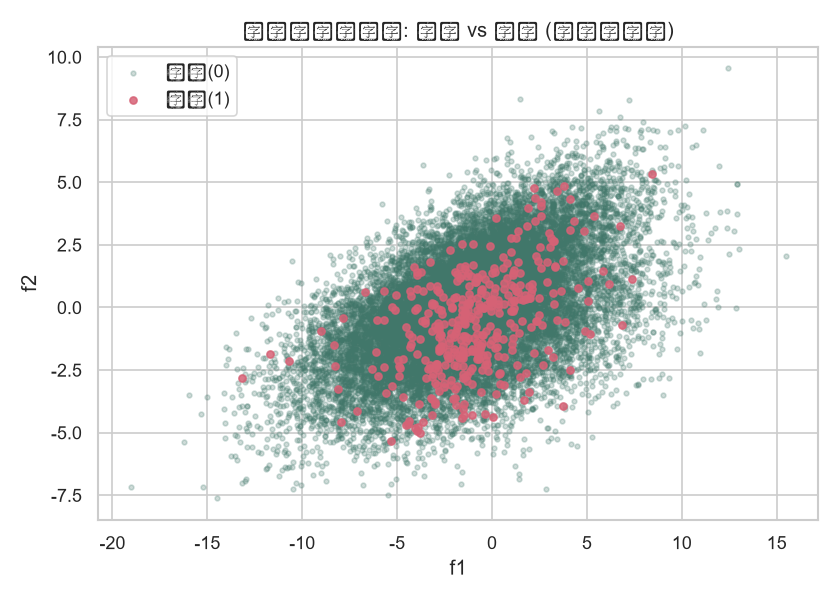
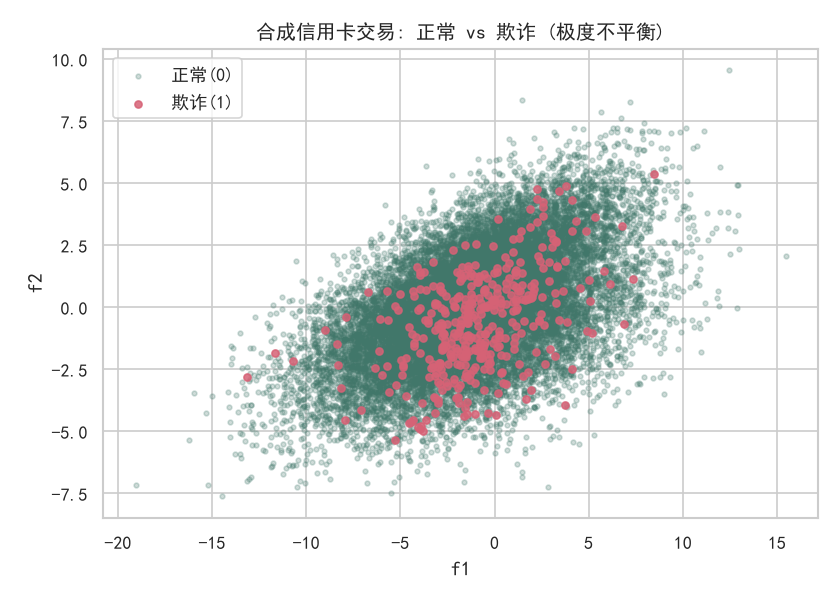
修复 set_theme 重置中文字体的问题; 重出 EDA/ROC/PR 图

diff --git a/bdml2/step8_compare.py b/bdml2/step8_compare.py
@@ -1,0 +1,43 @@
+# step8_compare.py
+# 用途: 在同一图上比较三类模型的 ROC 曲线与 PR 曲线，直观看出"AUC 高≠业务好"。
+# 关键参数: 比较 y_prob_* 即可。
+# 预期输出: 两张图，左 ROC（越靠左上越好），右 PR（不平衡时比 ROC 更敏感）。
+# 常见报错与解决:
+#   - 曲线重叠看不清 -> 拉大 figsize，或只画两个模型对比;
+#   - PR 曲线往右下移动 -> 样本多是正常。
+from step4_split import y_test
+from step5_lr import y_prob_lr
+from step6_rf import y_prob_rf
+from step7_svm import y_prob_svm
+from step1_config import *
+
+import matplotlib
+matplotlib.use("Agg")
+import matplotlib.pyplot as plt
+import os
+
+os.chdir(os.path.dirname(os.path.abspath(__file__)))
+
+models = {
+    "LogReg": y_prob_lr,
+    "RandomForest": y_prob_rf,
+    "SVM": y_prob_svm,
+}
+
+fig, axes = plt.subplots(1, 2, figsize=(12, 5))
+for name, prob in models.items():
+    fpr, tpr, _ = roc_curve(y_test, prob)
+    axes[0].plot(fpr, tpr, label=f"{name} (AUC={roc_auc_score(y_test, prob):.3f})")
+axes[0].plot([0, 1], [0, 1], "k--", alpha=0.5)
+axes[0].set_xlabel("假正率 FPR"); axes[0].set_ylabel("召回率 TPR")
+
+axes[0].set_title("ROC 曲线对比"); axes[0].legend()
+
+for name, prob in models.items():
+    prec, rec, _ = precision_recall_curve(y_test, prob)
+    axes[1].plot(rec, prec, label=name)
+axes[1].set_xlabel("召回率 Recall"); axes[1].set_ylabel("精确率 Precision")
+axes[1].set_title("PR 曲线对比（不平衡时更敏感）"); axes[1].legend()
+
+plt.tight_layout(); plt.savefig("fig_roc_pr.png", dpi=120)
+print("已保存 fig_roc_pr.png")

diff --git a/bdml2/step1_config.py b/bdml2/step1_config.py
@@ -28,9 +28,9 @@ RANDOM_STATE = 482
 np.random.seed(RANDOM_STATE)
 torch.manual_seed(RANDOM_STATE)
 
+sns.set_theme(style="whitegrid")     # 必须在设置字体之前——它会重置 rcParams！
 plt.rcParams["figure.dpi"] = 110
 plt.rcParams["axes.unicode_minus"] = False
 # Windows 下用黑体显示中文; macOS 可用 'Arial Unicode MS', Linux 可用 'WenQuanYi Micro Hei'
 plt.rcParams["font.sans-serif"] = ["SimHei", "Arial Unicode MS", "DejaVu Sans"]
-sns.set_theme(style="whitegrid")
 print("环境配置完成。")
